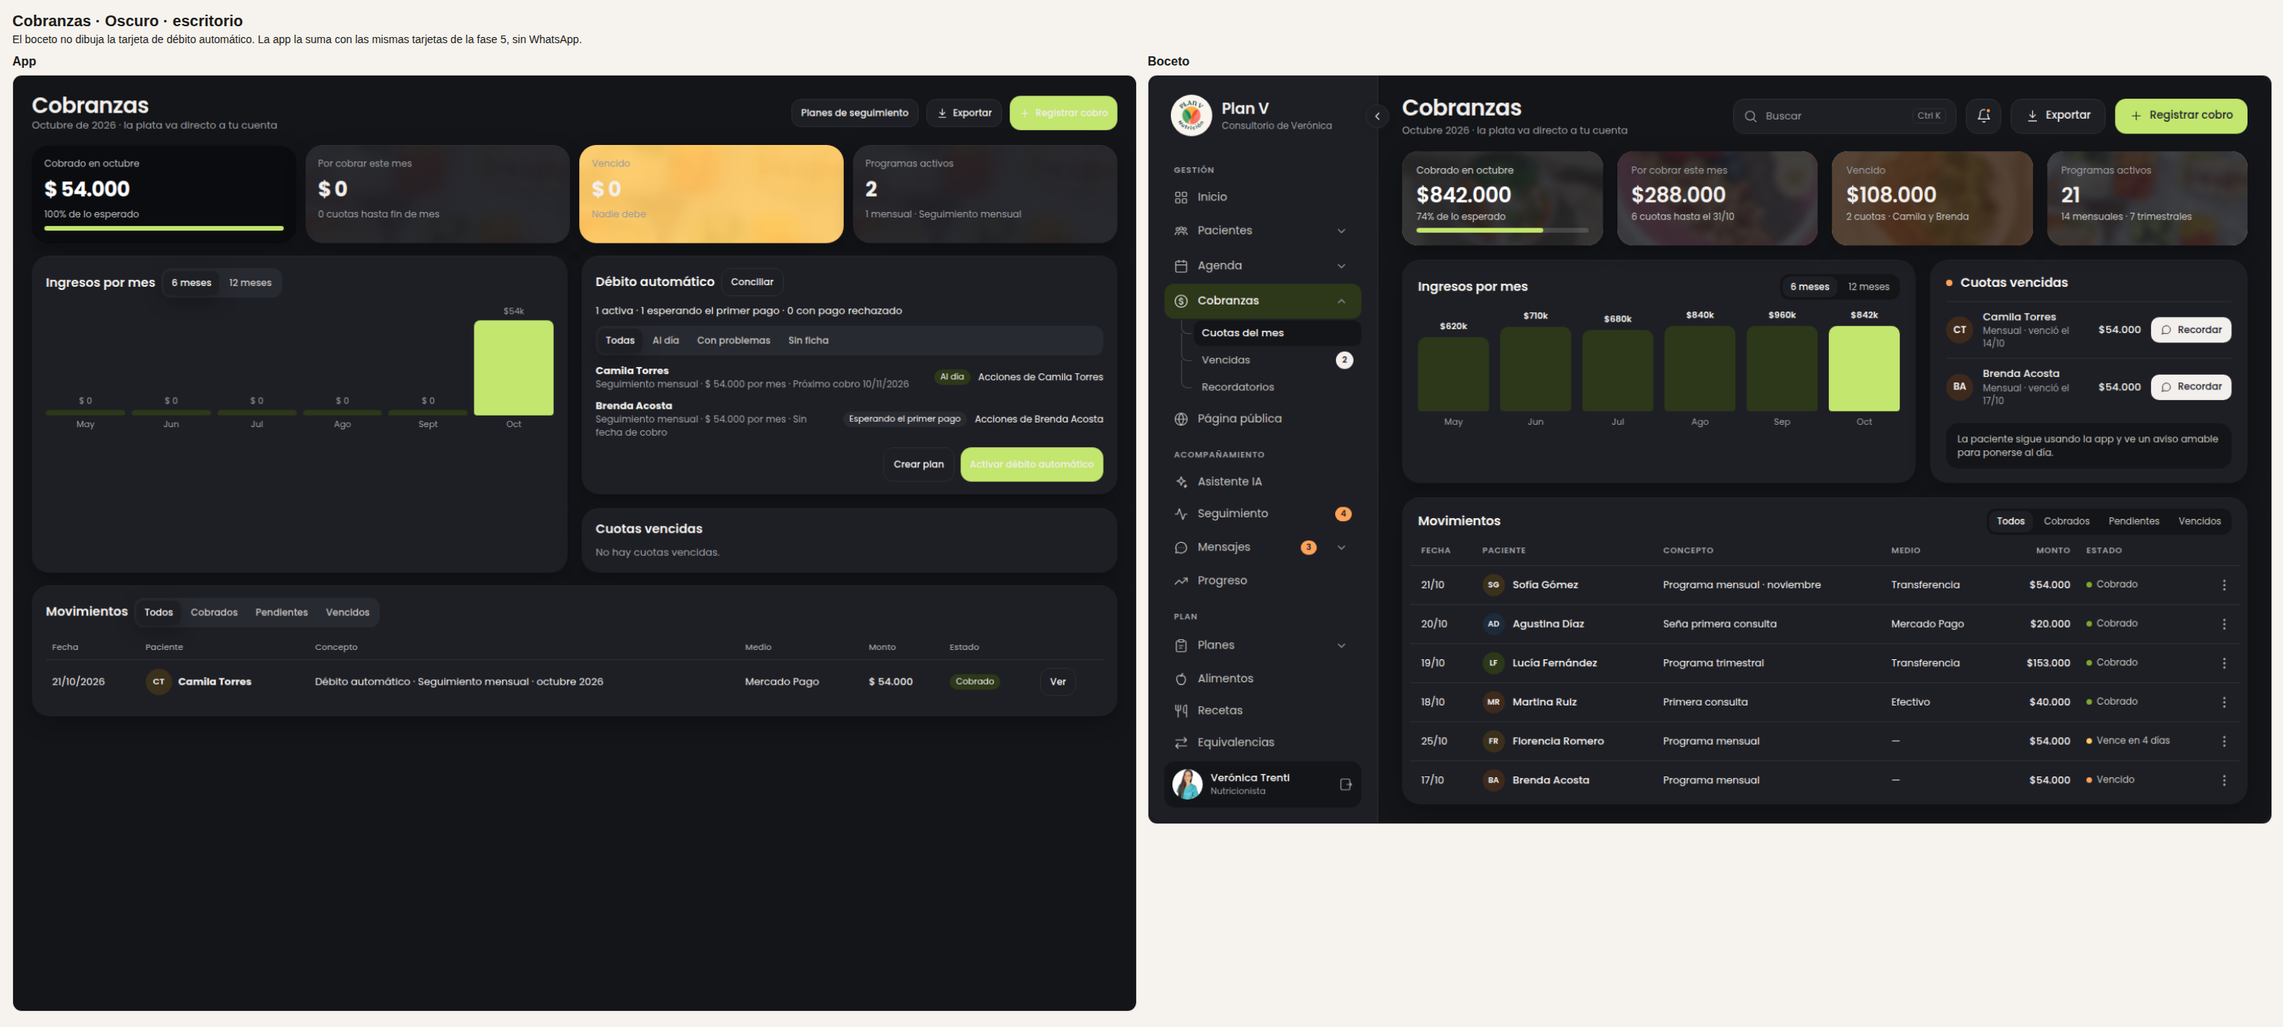
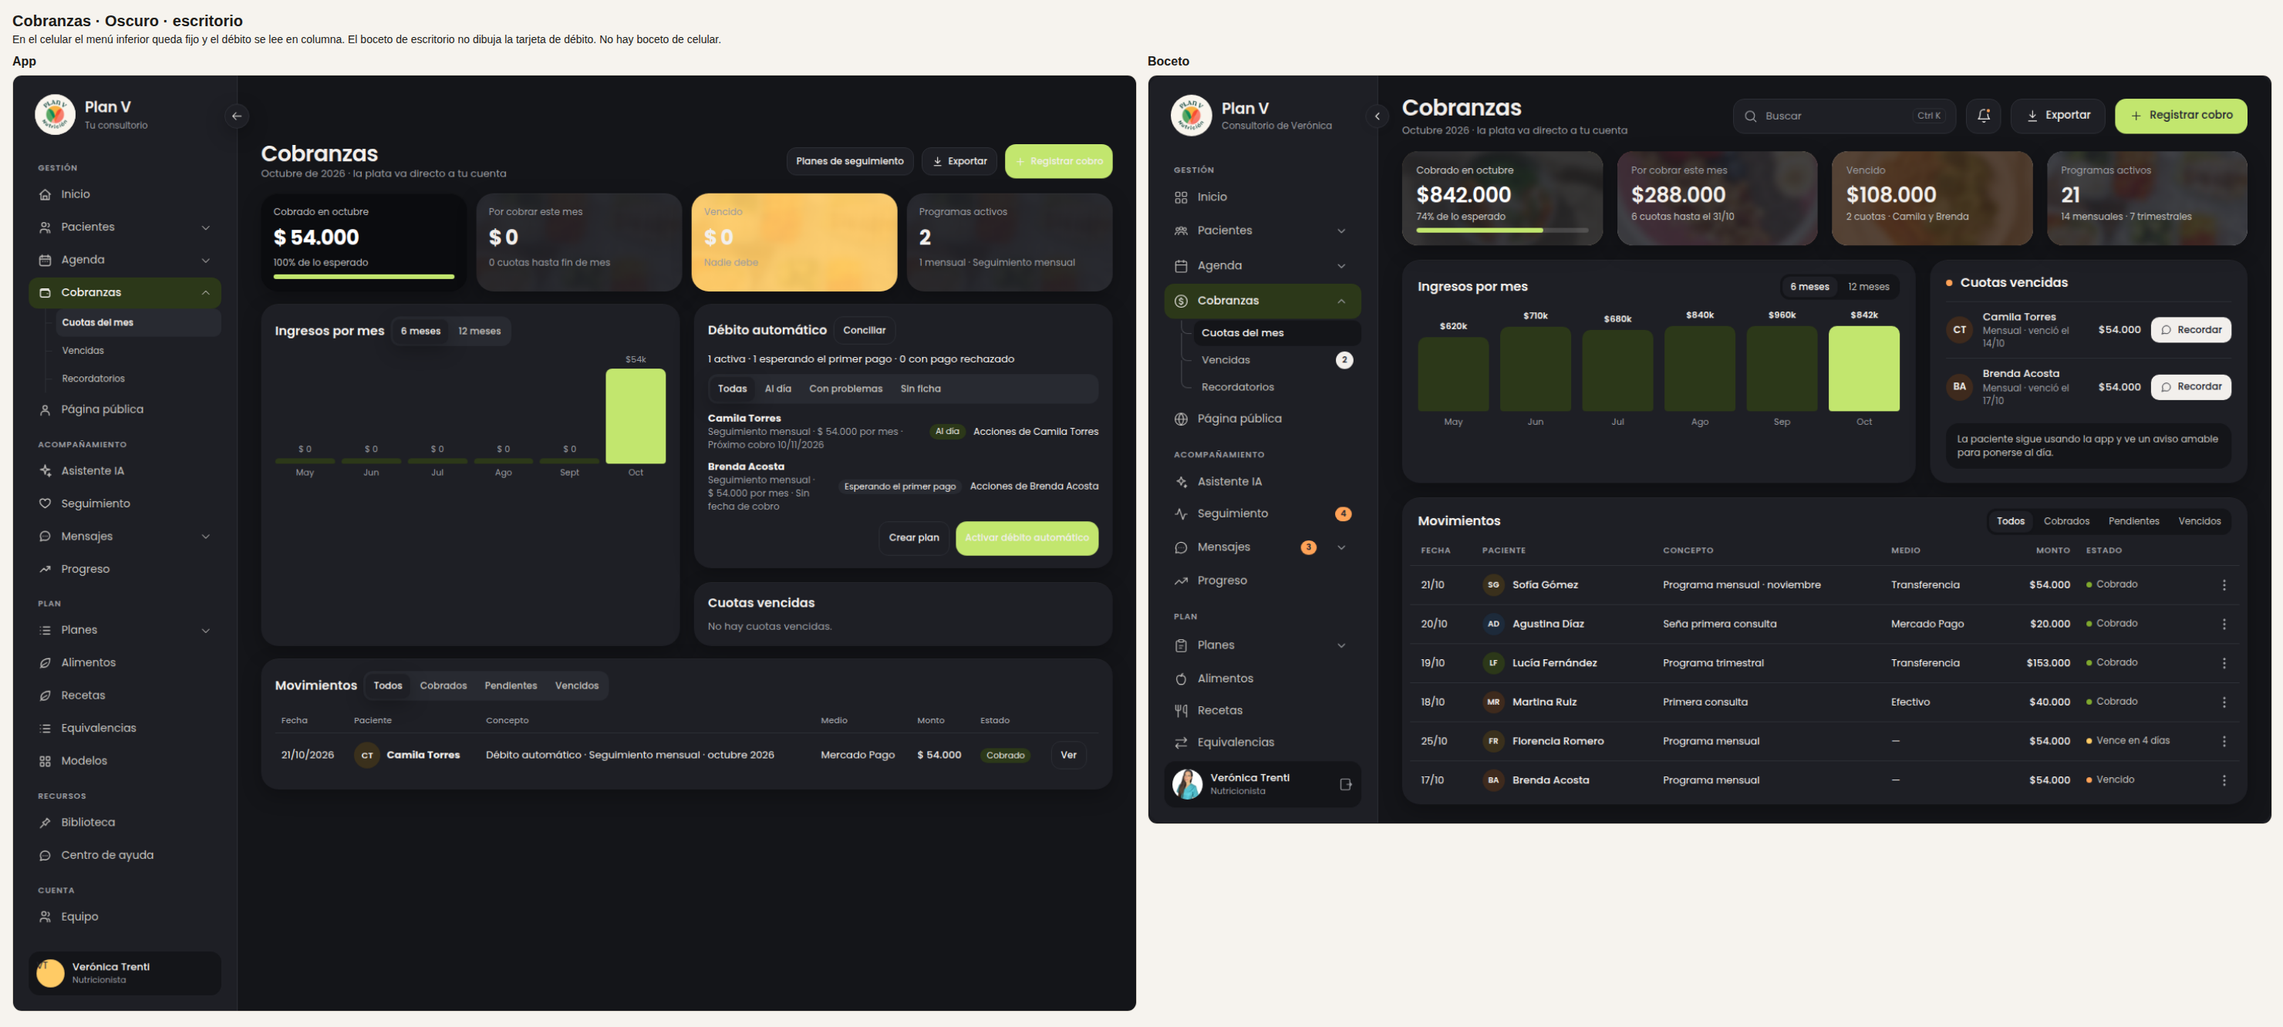
Fija el menú inferior del celular y vuelve a sacar las capturas junto al boceto de escritorio.
En 360, 390 y 430 el débito, los movimientos y Suscribirme quedan dentro de la pantalla, con botones de al menos 44 px.

diff --git a/src/components/nutrigo/SubscriptionPreview.tsx b/src/components/nutrigo/SubscriptionPreview.tsx
@@ -1,10 +1,14 @@
 import type { BillingBoard } from '../../types/fees';
 import { schedulingDefaultSettings } from '../../types/scheduling';
 import type { PatientSubscription, SubscriptionPlan } from '../../types/subscriptions';
+import { Icon, Mark } from '../shared/Icon';
+import { X } from '@phosphor-icons/react';
 import { PanelCobranzasView } from './PanelCobranzas';
 import { PanelDebitView } from './PanelDebit';
+import { PanelNavigation } from './PanelNavigation';
 import { PanelPublicPageView } from './PanelPublicPage';
 import { PublicFollowPlansView } from './PublicFollowPlans';
+import { PRO_TABS } from './showroom-nav';
 import './nutrigo.css';
 import './panel-nutri-tokens.css';
 import './panel-nutri-shell.css';
@@ -52,8 +56,22 @@ export function SubscriptionPreview() {
   config.page.title = 'Lic. Verónica Trenti';
   config.page.bio = 'Acompaño a mujeres a comer mejor, con un plan que entra en la rutina.';
   config.types = [{ id: '00000000-0000-4000-a000-000000000002', name: 'Consulta suelta', calendar_id: config.calendars[0].id, duration_min: 60, channel: 'presencial', price_minor: 4_000_000, deposit_minor: 0 }];
-  return <div className={`nv-app nv-pro pn-panel${dark ? ' nv-dark' : ''}`} style={{ minHeight: '100vh' }}>
-    <main style={{ padding: 24, minWidth: 0 }}>
+  const shell = screen !== 'suscripcion';
+  const current = screen === 'publica' ? '/crm/agenda?agenda=publica' : '/crm/cobranzas';
+  return <div className={`nv-app nv-pro pn-panel${screen.startsWith('cobranzas') ? ' nv-fees-page' : ''}${screen === 'publica' ? ' nv-agenda-page' : ''}${dark ? ' nv-dark' : ''}`} style={{ minHeight: '100vh' }}>
+    {shell && <aside className="nv-sidebar" aria-label="Consultorio">
+      <button className="pn-mobile-close" type="button" aria-label="Cerrar navegación"><X size={18} aria-hidden="true" /></button>
+      <a className="nv-brand" href="/crm/inicio"><Mark /><span>Plan V<small>Tu consultorio</small></span></a>
+      <PanelNavigation patients={[]} unread={0} admin={false} current={current} collapsed={false} onCollapse={noop} onOpen={noop} />
+      <div className="pn-sidebar-account"><span className="nv-user-avatar" aria-hidden="true">VT</span><span className="pn-nav-label"><strong>Verónica Trenti</strong><small>Nutricionista</small></span></div>
+    </aside>}
+    <div className="nv-workspace">
+    {shell && <header className="nv-topbar">
+      <a className="nv-brand" href="/crm/inicio"><Mark /><span>Plan V</span></a>
+      <button type="button" className="nv-button nv-ghost nv-menu-toggle" aria-label="Abrir el menú"><Icon name="list" size={20} /></button>
+    </header>}
+    <div className={shell ? 'nv-content-layout' : undefined}>
+    <main className={shell ? 'nv-main' : undefined} id="nv-main">
       {screen.startsWith('cobranzas') && <PanelCobranzasView
         board={board} today="2026-10-21" filter="todos" reminders={false} onFilter={noop} onExport={noop} onOpen={noop} onRemind={noop} onRetry={noop} error="" loading={false}
         plansAction={<button type="button" className="p5-btn">Planes de seguimiento</button>}
@@ -78,5 +96,11 @@ export function SubscriptionPreview() {
         <form><label>Tipo de consulta <select defaultValue="consulta"><option value="consulta">Consulta suelta · 60 min · $40.000</option></select></label><button type="button">Solicitar turno</button></form>
       </section>}
     </main>
+    </div>
+    </div>
+    {shell && <nav className="nv-tabbar" aria-label="Secciones principales">
+      {PRO_TABS.map(tab => <button key={tab.id} type="button" aria-current={screen === 'publica' && tab.id === 'agenda' ? 'page' : undefined}><span className="nv-tab-icon"><Icon name={tab.icon} size={22} /></span><span>{tab.label}</span></button>)}
+      <button type="button" aria-current={screen.startsWith('cobranzas') ? 'page' : undefined}><span className="nv-tab-icon"><Icon name="grid" size={22} /></span><span>Más</span></button>
+    </nav>}
   </div>;
 }

diff --git a/src/components/nutrigo/panel-nutri-shell.css b/src/components/nutrigo/panel-nutri-shell.css
@@ -111,15 +111,16 @@
   .pn-panel .pn-nav-heading { margin-top:12px; }
 }
 @media (max-width:799px) {
-  .nv-app.nv-pro.pn-panel { display:block; height:auto; overflow:visible; padding-bottom:calc(72px + env(safe-area-inset-bottom)); }
+  .nv-app.nv-pro.pn-panel { display:block; height:auto; overflow:visible; padding-bottom:calc(108px + env(safe-area-inset-bottom)); }
   .nv-app.nv-pro.pn-panel .nv-workspace { min-height:100dvh; }
   .nv-app.nv-pro.pn-panel .nv-sidebar { position:fixed; top:0; left:0; width:min(320px,calc(100vw - 40px)); height:100dvh; padding:20px 18px; visibility:hidden; transform:translateX(-100%); transition:transform var(--pn-motion) var(--pn-ease),visibility var(--pn-motion); z-index:80; }
   .nv-app.nv-pro.pn-panel.nv-menu-open .nv-sidebar { transform:translateX(0); visibility:visible; }
   .pn-panel .pn-collapse { display:none; }
   .nv-app.nv-pro.pn-panel .nv-topbar { position:sticky; top:0; padding:14px 16px; min-height:64px; background:var(--pn-cream); z-index:30; }
   .nv-app.nv-pro.pn-panel .nv-topbar-title { font-size:22px; }
-  .nv-app.nv-pro.pn-panel .nv-menu-toggle { display:flex !important; margin-left:auto; }
-  .nv-app.nv-pro.pn-panel .nv-main { padding:8px 16px 20px; overflow:visible; gap:14px; }
+  .nv-app.nv-pro.pn-panel .nv-menu-toggle { display:flex !important; margin-left:auto; width:44px; height:44px; min-width:44px; min-height:44px; }
+  .nv-app.nv-pro.pn-panel .nv-sidebar a { min-height:44px; }
+  .nv-app.nv-pro.pn-panel .nv-main { padding:8px 16px calc(108px + env(safe-area-inset-bottom)); overflow:visible; gap:14px; }
   .pn-panel .nv-mobile-account { position:relative; margin-top:10px; }
   .pn-panel .nv-mobile-account .nv-header-menu { justify-content:space-between; }
   .pn-panel .nv-mobile-account .nv-user-menu { position:fixed; left:16px; right:16px; bottom:82px; top:auto; max-height:65dvh; overflow:auto; }
@@ -158,7 +159,7 @@
  .nv-app.nv-pro.pn-panel .nv-topbar>.nv-brand { display:flex; flex:none; }
  .nv-app.nv-pro.pn-panel .nv-topbar>.nv-brand>span { display:none; }
  .nv-app.nv-pro.pn-panel .pn-mobile-close { position:absolute; right:8px; top:8px; display:grid; place-items:center; width:44px; height:44px; background:var(--pn-white); color:var(--pn-ink); border:0; border-radius:12px; }
- .nv-app.nv-pro.pn-panel .nv-tabbar { display:grid; grid-template-columns:repeat(5,minmax(0,1fr)); left:max(12px,env(safe-area-inset-left)); right:max(12px,env(safe-area-inset-right)); bottom:max(12px,env(safe-area-inset-bottom)); width:auto; min-height:64px; padding:6px 4px; border:0; border-radius:24px; gap:2px; background:var(--pn-solid); backdrop-filter:none; }
+ .nv-app.nv-pro.pn-panel .nv-tabbar { position:fixed; z-index:35; display:grid; grid-template-columns:repeat(5,minmax(0,1fr)); left:max(12px,env(safe-area-inset-left)); right:max(12px,env(safe-area-inset-right)); bottom:max(12px,env(safe-area-inset-bottom)); width:auto; min-height:64px; padding:6px 4px; border:0; border-radius:24px; gap:2px; background:var(--pn-solid); backdrop-filter:none; }
  .nv-app.nv-pro.pn-panel .nv-tabbar button { display:flex; flex-direction:column; justify-content:center; align-items:center; min-width:0; min-height:52px; padding:6px 0; gap:3px; border:0; background:transparent; color:var(--pn-on-solid); font-size:9px; font-weight:500; }
  .nv-app.nv-pro.pn-panel .nv-tabbar button[aria-current=page] { background:transparent; color:var(--pn-lime); }
  .nv-app.nv-pro.pn-panel .nv-tabbar .nv-tab-icon { display:grid; place-items:center; width:22px; height:22px; padding:0; background:transparent; }

diff --git a/src/components/nutrigo/scheduling.css b/src/components/nutrigo/scheduling.css
@@ -1,3 +1,4 @@
-.scheduling-panel{color:var(--nv-ink);max-width:100%;box-sizing:border-box}.scheduling-panel form,.scheduling-panel details,.scheduling-panel article{margin:16px 0;padding:16px;border:1px solid var(--nv-border);border-radius:12px;background:var(--nv-card)}.scheduling-panel label{display:flex;flex-direction:column;gap:6px;margin:10px 0;font-size:14px;color:var(--nv-ink)}.scheduling-panel input,.scheduling-panel select,.scheduling-panel textarea{padding:10px;box-sizing:border-box;max-width:100%;font:inherit;background:var(--nv-bg);color:var(--nv-ink);border:1px solid var(--nv-border);border-radius:8px}.scheduling-panel input[type=checkbox]{align-self:flex-start;width:20px;height:20px}.scheduling-panel button{font:inherit;min-height:44px;padding:10px 14px;margin:4px;border:1px solid var(--nv-border);border-radius:8px;background:var(--nv-card);color:var(--nv-ink);cursor:pointer}.scheduling-panel button:disabled{opacity:.55;cursor:wait}.scheduling-panel :is(button,input,select,textarea,a):focus-visible{outline:3px solid var(--nv-forest);outline-offset:3px}.scheduling-panel fieldset{border:0;min-width:0;padding:0}.scheduling-panel code,.scheduling-panel p,.scheduling-panel li{overflow-wrap:anywhere}.scheduling-panel header img{object-fit:contain}.scheduling-panel p{color:var(--nv-ink)}
+.scheduling-panel{color:var(--nv-ink);max-width:100%;box-sizing:border-box}.scheduling-panel form,.scheduling-panel details,.scheduling-panel article{margin:16px 0;padding:16px;border:1px solid var(--nv-border);border-radius:12px;background:var(--nv-card)}.scheduling-panel label{display:flex;flex-direction:column;gap:6px;margin:10px 0;font-size:14px;color:var(--nv-ink)}.scheduling-panel input,.scheduling-panel select,.scheduling-panel textarea{padding:10px;box-sizing:border-box;max-width:100%;font:inherit;background:var(--nv-bg);color:var(--nv-ink);border:1px solid var(--nv-border);border-radius:8px}.scheduling-panel input[type=checkbox]{align-self:flex-start;width:20px;height:20px}
+@media(max-width:800px){.scheduling-panel input:not([type=checkbox]),.scheduling-panel select,.scheduling-panel textarea{min-height:44px}.scheduling-panel label:has(input[type=checkbox]){flex-direction:row;align-items:center;min-height:44px;gap:12px}.scheduling-panel input[type=checkbox]{width:44px;height:44px;flex:none}}.scheduling-panel button{font:inherit;min-height:44px;padding:10px 14px;margin:4px;border:1px solid var(--nv-border);border-radius:8px;background:var(--nv-card);color:var(--nv-ink);cursor:pointer}.scheduling-panel button:disabled{opacity:.55;cursor:wait}.scheduling-panel :is(button,input,select,textarea,a):focus-visible{outline:3px solid var(--nv-forest);outline-offset:3px}.scheduling-panel fieldset{border:0;min-width:0;padding:0}.scheduling-panel code,.scheduling-panel p,.scheduling-panel li{overflow-wrap:anywhere}.scheduling-panel header img{object-fit:contain}.scheduling-panel p{color:var(--nv-ink)}
 .nv-agenda-settings{padding:12px 20px;background:var(--nv-card);border:1px solid var(--nv-border);border-radius:12px;margin-bottom:16px}
 .nv-agenda-settings summary{cursor:pointer;min-height:44px;display:flex;align-items:center;color:var(--nv-ink)}

diff --git a/src/components/nutrigo/panel-fase5.css b/src/components/nutrigo/panel-fase5.css
@@ -119,8 +119,11 @@
   .pn-panel .p5-daylist { display:flex; flex-direction:column; gap:12px; }
   .pn-panel .p5-legend { margin-left:0; }
   .pn-panel .p5-head .p5-pri { width:100%; }
-  .pn-panel .p5-btn,.pn-panel .p5-seg button,.pn-panel .p5-menu summary,.pn-panel .p5 :is(input,select) { min-height:44px; }
-  .pn-panel .p5-seg { flex-wrap:wrap; }
+  .pn-panel .p5-card>header { flex-wrap:wrap; align-items:flex-start; }
+  .pn-panel .p5-card>header .p5-seg { flex:1 1 100%; min-width:0; }
+  .pn-panel .p5-btn,.pn-panel .p5-seg button,.pn-panel .p5-menu summary,.pn-panel .p5 :is(input,select) { min-height:44px; min-width:44px; }
+  .pn-panel .p5-seg { flex-wrap:wrap; max-width:100%; min-width:0; }
+  .pn-panel .p5-seg button { white-space:nowrap; }
   .pn-panel .p5,.pn-panel .p5-card,.pn-panel .p5-phone { max-width:100%; }
   .pn-panel .p5-table-wrap { display:none; }
   .pn-panel .p5-moves { display:flex; flex-direction:column; gap:10px; }
@@ -131,8 +134,13 @@
   .pn-panel .p5-debit .p5-tx { flex:none; width:100%; }
   .pn-panel .p5-phone { width:100%; box-sizing:border-box; }
   .pn-panel .p5-phone>div { flex-wrap:wrap; align-items:flex-start; }
-  .pn-panel .p5-phone>div :is(b,small) { min-width:0; flex:1 1 8rem; overflow-wrap:break-word; }
-  .pn-panel .p5-phone .p5-preview-cta { flex:1 0 100%; min-height:44px; }
+  .pn-panel .p5-phone>div :is(b,small) { min-width:0; flex:1 1 8rem; overflow-wrap:break-word; word-break:normal; }
+  .pn-panel .p5-phone>.p5-preview-cta { flex:none; width:100%; min-height:44px; }
+  .pn-panel .p5-phone>div .p5-preview-cta { flex:1 0 100%; width:auto; min-height:44px; }
+  .pn-panel .p5-switch,.pn-panel .p5-switch.on { width:44px; height:44px; background:transparent; }
+  .pn-panel .p5-switch::before { content:""; position:absolute; left:1px; right:1px; top:9px; height:26px; border-radius:999px; background:var(--pn-toggle); }
+  .pn-panel .p5-switch.on::before { background:var(--pn-lime); }
+  .pn-panel .p5-switch::after { top:12px; left:4px; }
 }
 @media (prefers-reduced-motion:reduce) {
   .pn-panel .p5-btn,.pn-panel .p5-switch::after { transition:none; }

diff --git a/src/components/nutrigo/panel-mobile.test.ts b/src/components/nutrigo/panel-mobile.test.ts
@@ -1,0 +1,25 @@
+import { readFileSync } from 'node:fs';
+import { describe, expect, it } from 'vitest';
+
+const shell = readFileSync(new URL('./panel-nutri-shell.css', import.meta.url), 'utf8');
+const fase5 = readFileSync(new URL('./panel-fase5.css', import.meta.url), 'utf8');
+const mobile = fase5.slice(fase5.indexOf('@media (max-width:800px)'));
+
+describe('celular de cobranzas', () => {
+  it('deja el menú inferior fijo y reserva espacio con el área segura', () => {
+    expect(shell).toMatch(/\.nv-app\.nv-pro\.pn-panel \.nv-tabbar \{ position:fixed; z-index:35;/);
+    expect(shell).toMatch(/padding-bottom:calc\(108px \+ env\(safe-area-inset-bottom\)\)/);
+  });
+
+  it('apila el débito y los movimientos, y no parte los nombres por letra', () => {
+    expect(fase5).toMatch(/\.pn-panel \.p5-tx b,\.pn-panel \.p5-tx span,\.pn-panel \.p5-link \{ display:block; overflow-wrap:break-word; word-break:normal; \}/);
+    expect(fase5).toMatch(/\.pn-panel \.p5-who b \{ overflow-wrap:break-word; word-break:normal; \}/);
+    expect(mobile).toMatch(/\.pn-panel \.p5-debit \{ flex-direction:column; align-items:stretch; \}/);
+    expect(mobile).toMatch(/\.pn-panel \.p5-table-wrap \{ display:none; \}/);
+    expect(mobile).toMatch(/\.pn-panel \.p5-moves \{ display:flex; flex-direction:column;/);
+    expect(mobile).toMatch(/\.pn-panel \.p5-seg \{ flex-wrap:wrap;/);
+    expect(mobile).toMatch(/\.pn-panel \.p5-phone>\.p5-preview-cta \{ flex:none; width:100%; min-height:44px; \}/);
+    expect(mobile).toMatch(/\.pn-panel \.p5-phone>div \.p5-preview-cta \{ flex:1 0 100%; width:auto; min-height:44px; \}/);
+    expect(mobile).toMatch(/min-height:44px; min-width:44px;/);
+  });
+});

diff --git a/docs/coordinacion-agentes.md b/docs/coordinacion-agentes.md
@@ -84,6 +84,7 @@ del piloto, entidad legal.
 
 ## 5. Bitácora de traspaso (la más nueva arriba)
 
+- **19/10 · Cursor · Celular de las pantallas de suscripciones** · Facu rechazó el celular de 390. En [PR #156](https://github.com/Facu42/plan-v/pull/156) el débito y los movimientos se leen en columna, las pestañas bajan de renglón, Suscribirme queda dentro del marco y el menú inferior queda fijo. Capturas nuevas en `design/suscripciones/`, el celular al lado del boceto de escritorio. Lo de Agenda y Cobranzas que ya está en main va en otra rama, `cursor/arreglo-mobile-fase5`.
 - **19/10 · Cursor · Pago único de la cuota, registrado** · Facu pidió cobrar un mes suelto por Mercado Pago, sin suscripción. Quedó en la spec, sección 2.9. Rama `cursor/pago-mensual-unico`, desde `cursor/suscripciones-cobranzas-pagina`, PR borrador contra esa rama. La nutri copia el enlace; la paciente paga desde la app o la página pública; el cobro entra una vez en Movimientos y la cuota pasa a «Al día». Con débito activo no se ofrece. Bandera apagada. Sin ficha, sin chat, sin merge y sin producción. Siguiente: implementarlo en esa rama y, al cerrar, actualizar spec, bitácora y este archivo.
 - **19/10 · Cursor · Pantallas de suscripciones** · [PR #156](https://github.com/Facu42/plan-v/pull/156), rama `cursor/suscripciones-cobranzas-pagina`, borrador contra `cursor/suscripciones-pacientes-backend`. Cobranzas, página pública del panel y la página donde la paciente elige el plan. Bandera apagada. 3.228 pruebas y dos omitidas, tipos en verde. Capturas de la app junto al boceto en `design/suscripciones/`. No se tocó la ficha ni el chat. Sin merge, sin migración aplicada y sin producción. La ficha y el chat quedan después del pago único. El sandbox de Mercado Pago sigue pendiente.
 - **19/10 · Cursor · Backend de suscripciones** · [PR #155](https://github.com/Facu42/plan-v/pull/155), rama `cursor/suscripciones-pacientes-backend`. Migración `20261020120000_patient_subscriptions` escrita y sin aplicar. Webhook general de Mercado Pago, alta con el token de la nutri, cobro único en Cobranzas, anulación por devolución, conciliación cada 6 horas y links que vencen a los 7 días. Bandera apagada. Sin pantallas del panel. 3.185 pruebas y dos omitidas, tipos y migraciones en verde. La prueba en sandbox de Mercado Pago sigue pendiente. Main (fases 4 y 5) quedó unido a esta rama.

diff --git a/docs/panel-nutri-rediseno/plan.md b/docs/panel-nutri-rediseno/plan.md
@@ -244,6 +244,13 @@ Facundo pidió que funcionen. Verificar primero si ya existen en `main`; si no, 
 
 ## 8. Bitácora (una entrada por paso, la más nueva arriba)
 
+### 2026-10-19 23:20 · Cursor · Celular de Cobranzas y de la página pública
+- Hecho: Facu rechazó el celular. En la tarjeta de débito el nombre se lee en una línea. En el celular, Movimientos es una lista de tarjetas. Las pestañas bajan de renglón. Suscribirme queda dentro del marco de la vista previa. El menú inferior queda fijo y no tapa el final. Nada se corta en 360, 390 ni 430, y los botones miden al menos 44 px.
+- Cómo: se aplicaron break-ui, frontend-patterns, frontend-a11y y verification-loop. Las vistas siguen recibiendo los mismos datos. Las capturas de celular se sacaron de nuevo dentro del panel, con el menú inferior, y quedaron al lado del boceto de escritorio en `design/suscripciones/`. No hay boceto de celular.
+- Rama y PR: `cursor/suscripciones-cobranzas-pagina`, [PR #156](https://github.com/Facu42/plan-v/pull/156). Lo que ya está en main (título repetido, accesos de paciente y turnos pegados) va en `cursor/arreglo-mobile-fase5`, no en esta rama.
+- Falta: la suite completa de esta rama se anota al cerrar el control. El pago único sigue en su rama. Ficha y chat, después.
+- Próximo paso exacto: cerrar el control de esta rama y seguir el pago único en `cursor/pago-mensual-unico`, trayendo este arreglo.
+
 ### 2026-10-19 22:30 · Cursor · Pago único de la cuota, pedido registrado
 - Hecho: Facu pidió un pago de un solo mes, sin suscripción. Quedó escrito en la spec (sección 2.9) antes de programarlo. La nutri genera un enlace de Mercado Pago para la cuota del mes, lo copia, y la paciente puede pagarlo desde su app o desde la página pública. El cobro entra una sola vez en Movimientos y la cuota pasa a «Al día». Si ya tiene débito activo, no se ofrece.
 - Cómo: misma bandera apagada, mismos textos en español y sin WhatsApp. Se reutiliza el enlace de la seña y la conciliación. Si hace falta una tabla, la migración se escribe y no se aplica. No se toca la ficha ni el chat.
